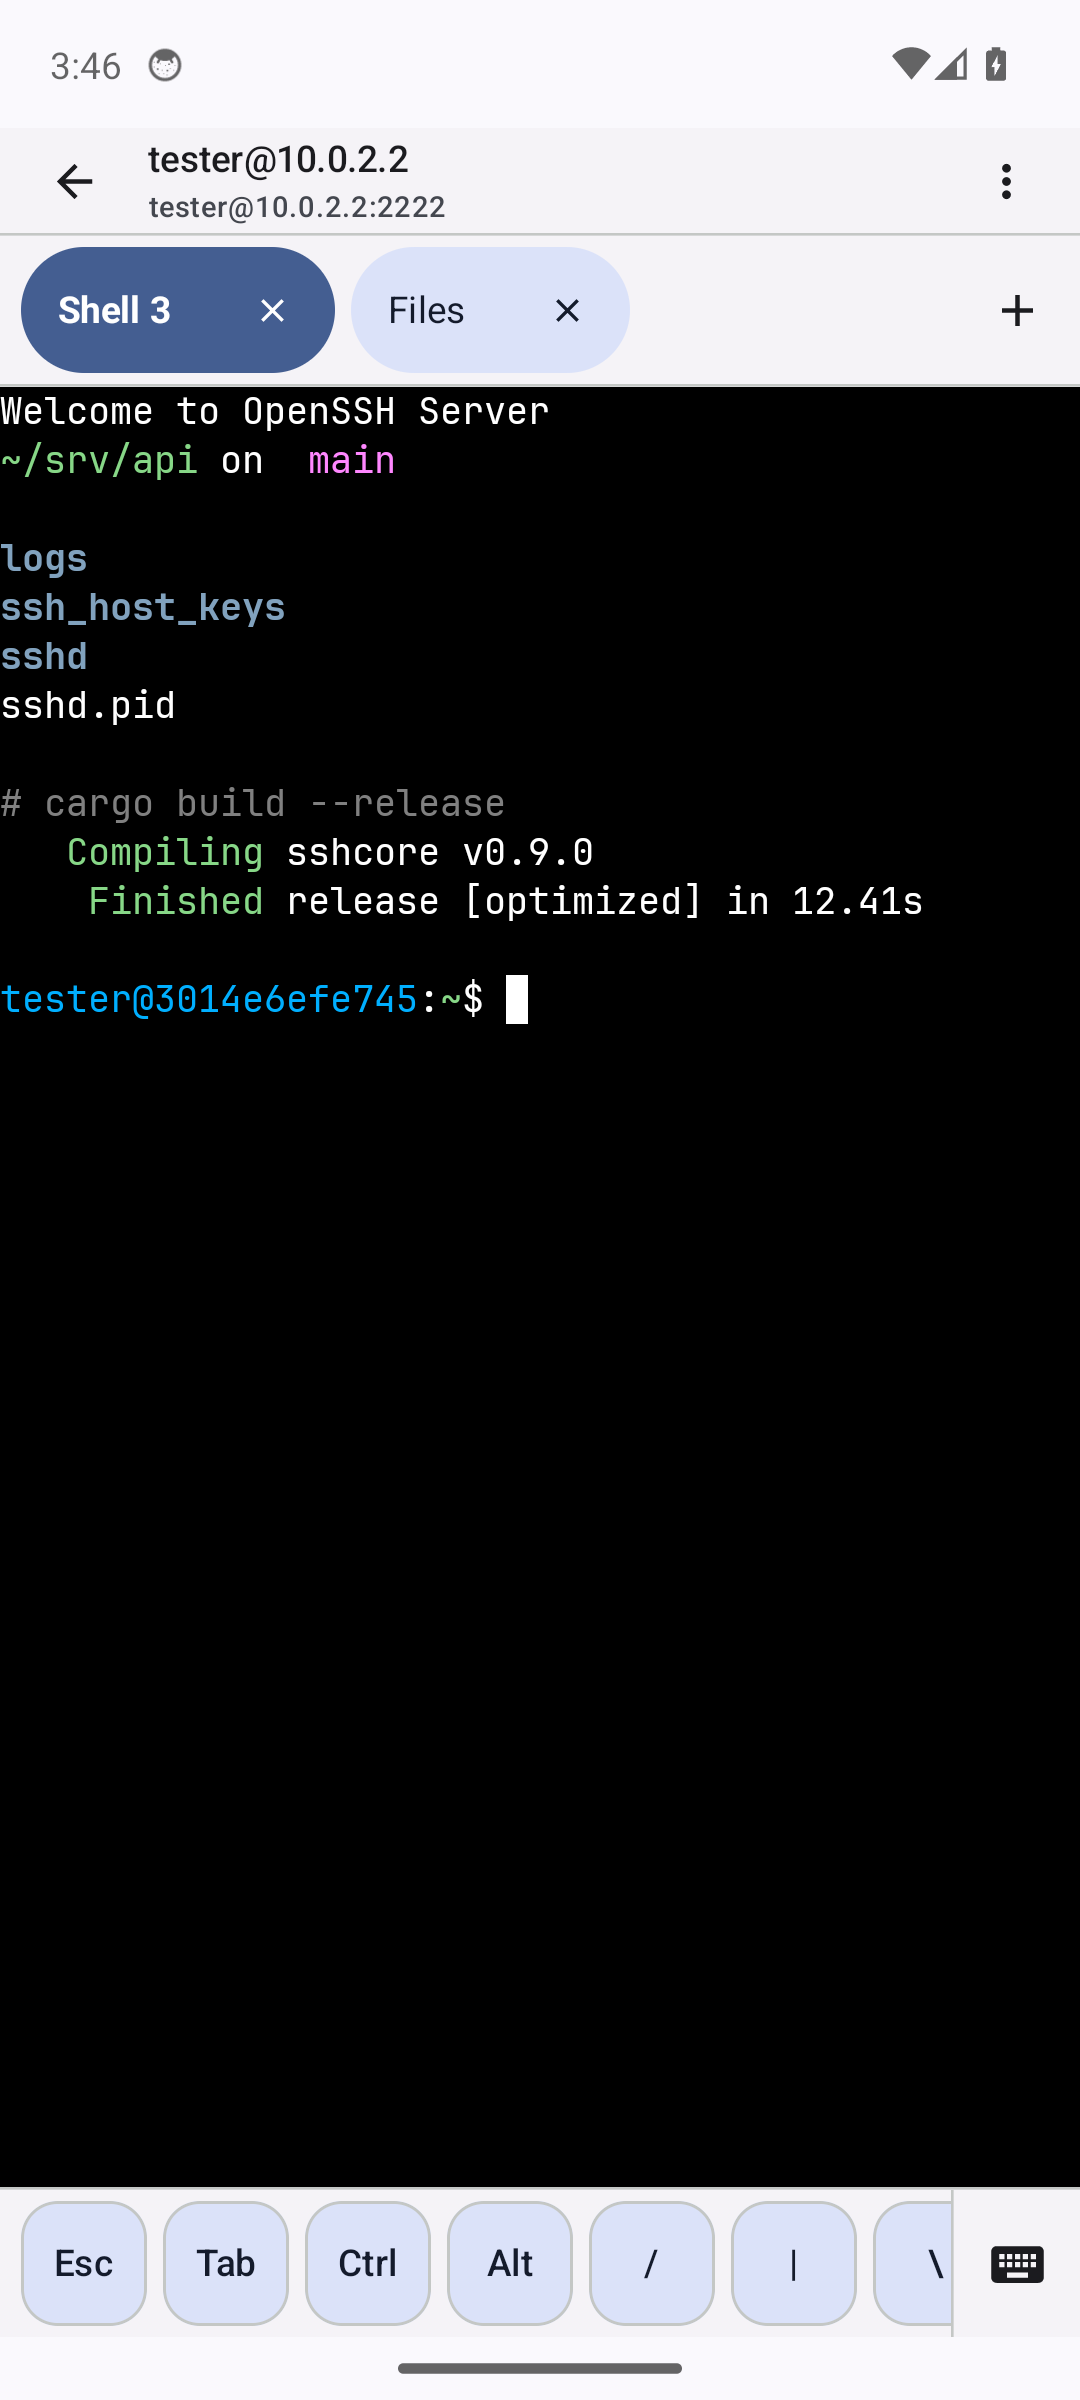
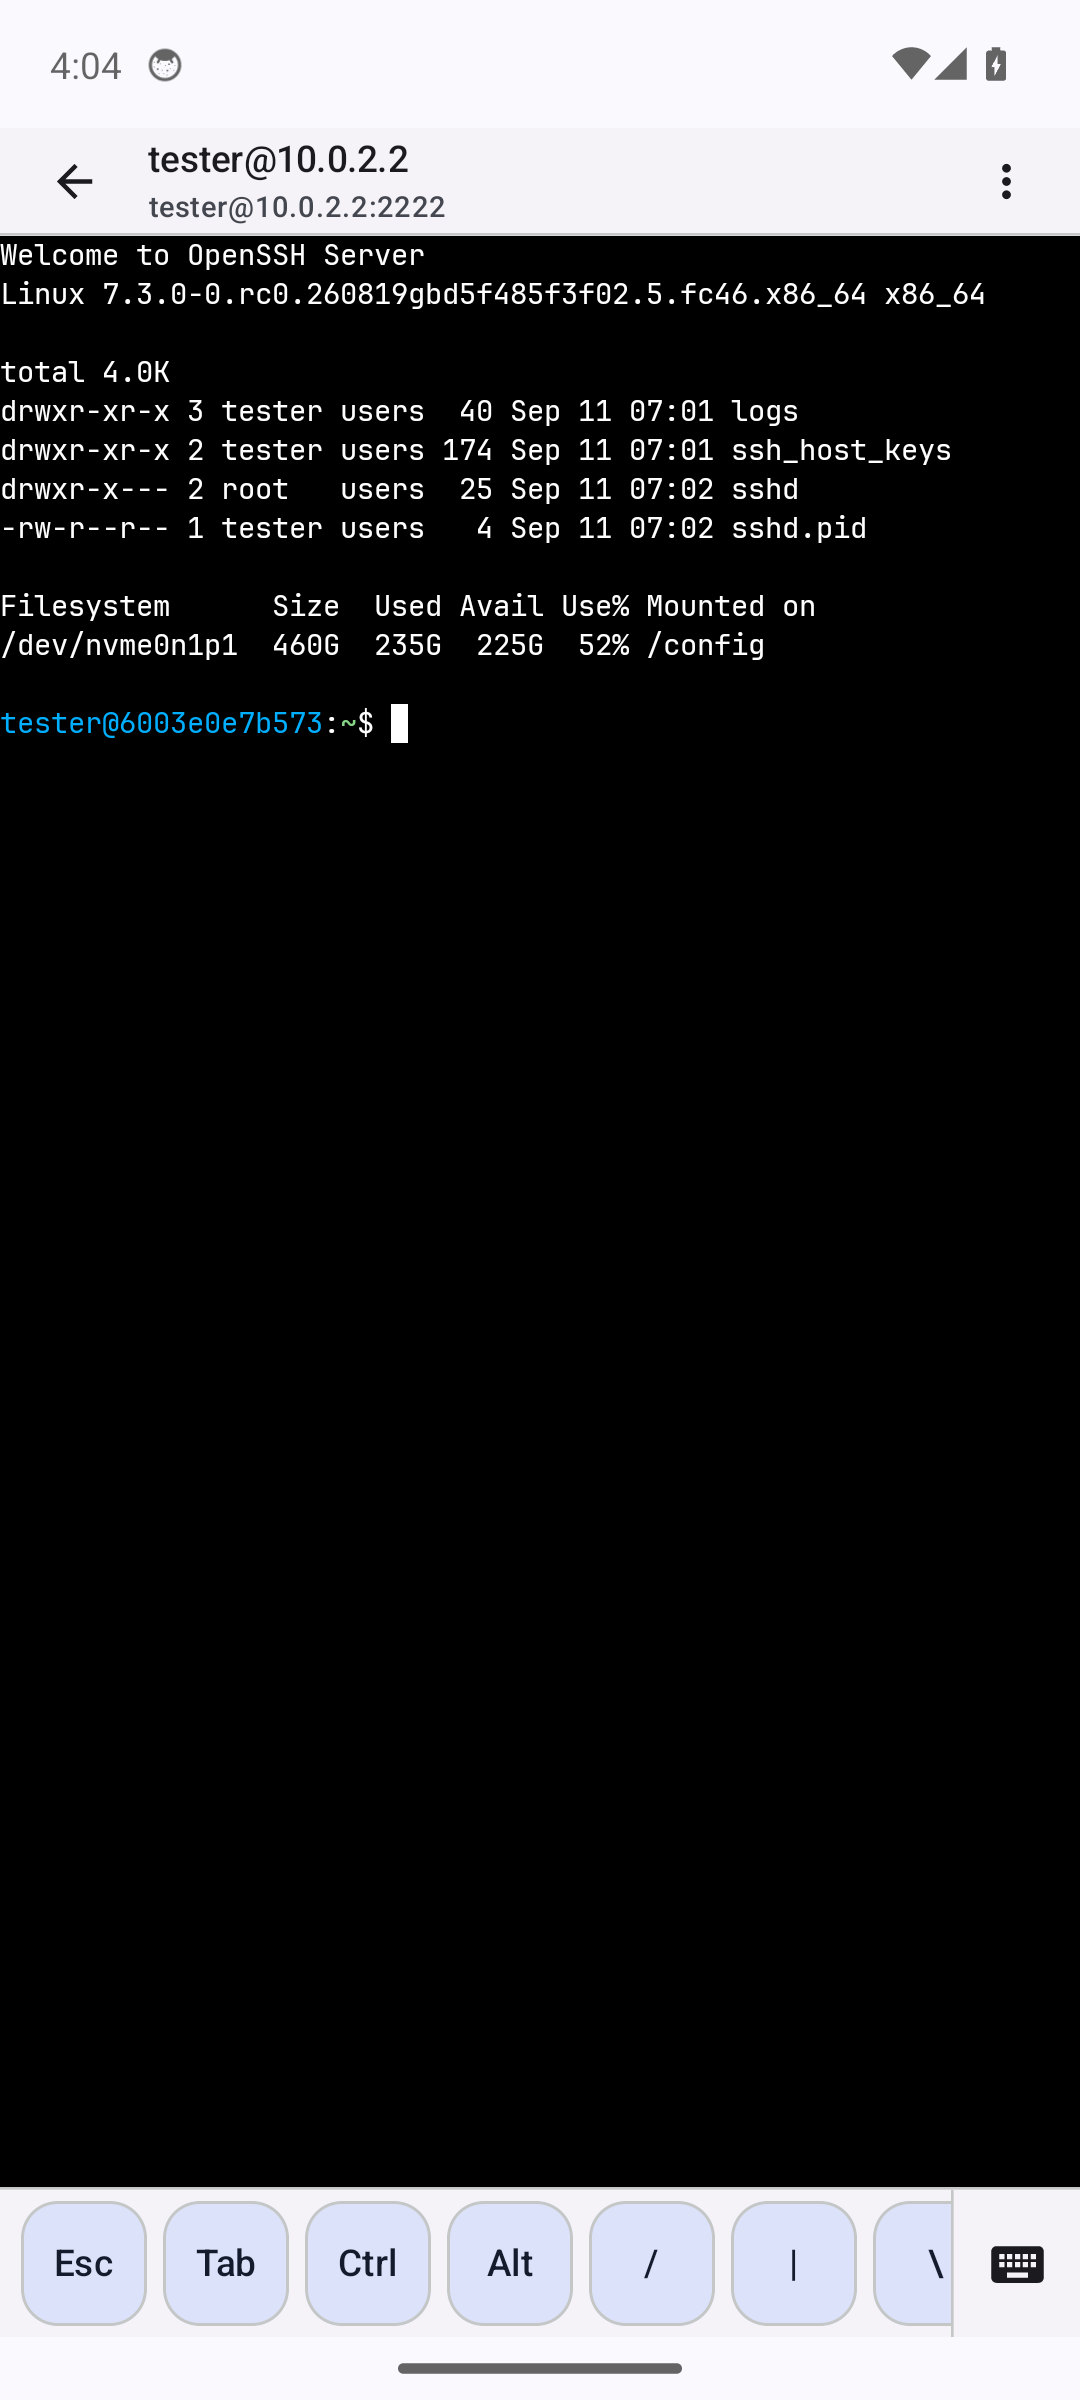
fix(files): stop the breadcrumb drawing a slash after the root
The root crumb's own name is the separator, so /config rendered as
"/ / config". Also replaces the screenshots: the terminal one showed a
cargo build that never ran, for a component this repo builds with Go.

diff --git a/app/android/app/src/main/java/com/remotly/app/ui/screens/FilesScreen.kt b/app/android/app/src/main/java/com/remotly/app/ui/screens/FilesScreen.kt
@@ -821,7 +821,11 @@ private fun Breadcrumbs(crumbs: List<Breadcrumb>, onNavigate: (String) -> Unit) 
             verticalAlignment = Alignment.CenterVertically,
         ) {
             crumbs.forEachIndexed { i, crumb ->
-                if (i > 0) {
+                // The root crumb's own name is the separator ("/", or a
+                // drive root ending in one), so another after it draws
+                // "/ / config".
+                val previous = crumbs.getOrNull(i - 1)?.name.orEmpty()
+                if (i > 0 && !previous.endsWith('/') && !previous.endsWith('\\')) {
                     Text("/", color = MaterialTheme.colorScheme.onSurfaceVariant)
                 }
                 TextButton(onClick = { onNavigate(crumb.path) }) { Text(crumb.name) }

diff --git a/README.md b/README.md
@@ -17,13 +17,14 @@ A standalone SSH and SFTP client for Android.
   on the way back up while it refreshes behind the list. It opens as a tab
   beside the shells and keeps its directory, so copying between two places on
   one host does not mean leaving the terminal.
-- **Transfers that never buffer the file.** Both directions move between the
-  content URI and the server in native code, with SFTP requests pipelined
-  rather than one round trip at a time, and progress throttled so a transfer
-  does not repaint the screen thousands of times. A resumed upload rewinds
-  past anything the server cannot vouch for instead of appending to whatever
-  length it reports. A name collision asks Keep both or Replace rather than
-  picking one.
+- **Transfers that stay out of the app's memory.** The native path moves
+  bytes straight between the content URI and the server, with SFTP requests
+  pipelined rather than one round trip at a time, and progress throttled so a
+  transfer does not repaint the screen thousands of times. A chunked fallback
+  remains for a backend that cannot reach the local file itself. A resumed
+  upload rewinds past anything the server cannot vouch for instead of
+  appending to whatever length it reports. A name collision asks Keep both or
+  Replace rather than picking one.
 - **Full shell environment.** Every session starts from a login shell, so
   PATH, aliases, functions, and version managers (nvm, pyenv, asdf) are all
   present.
